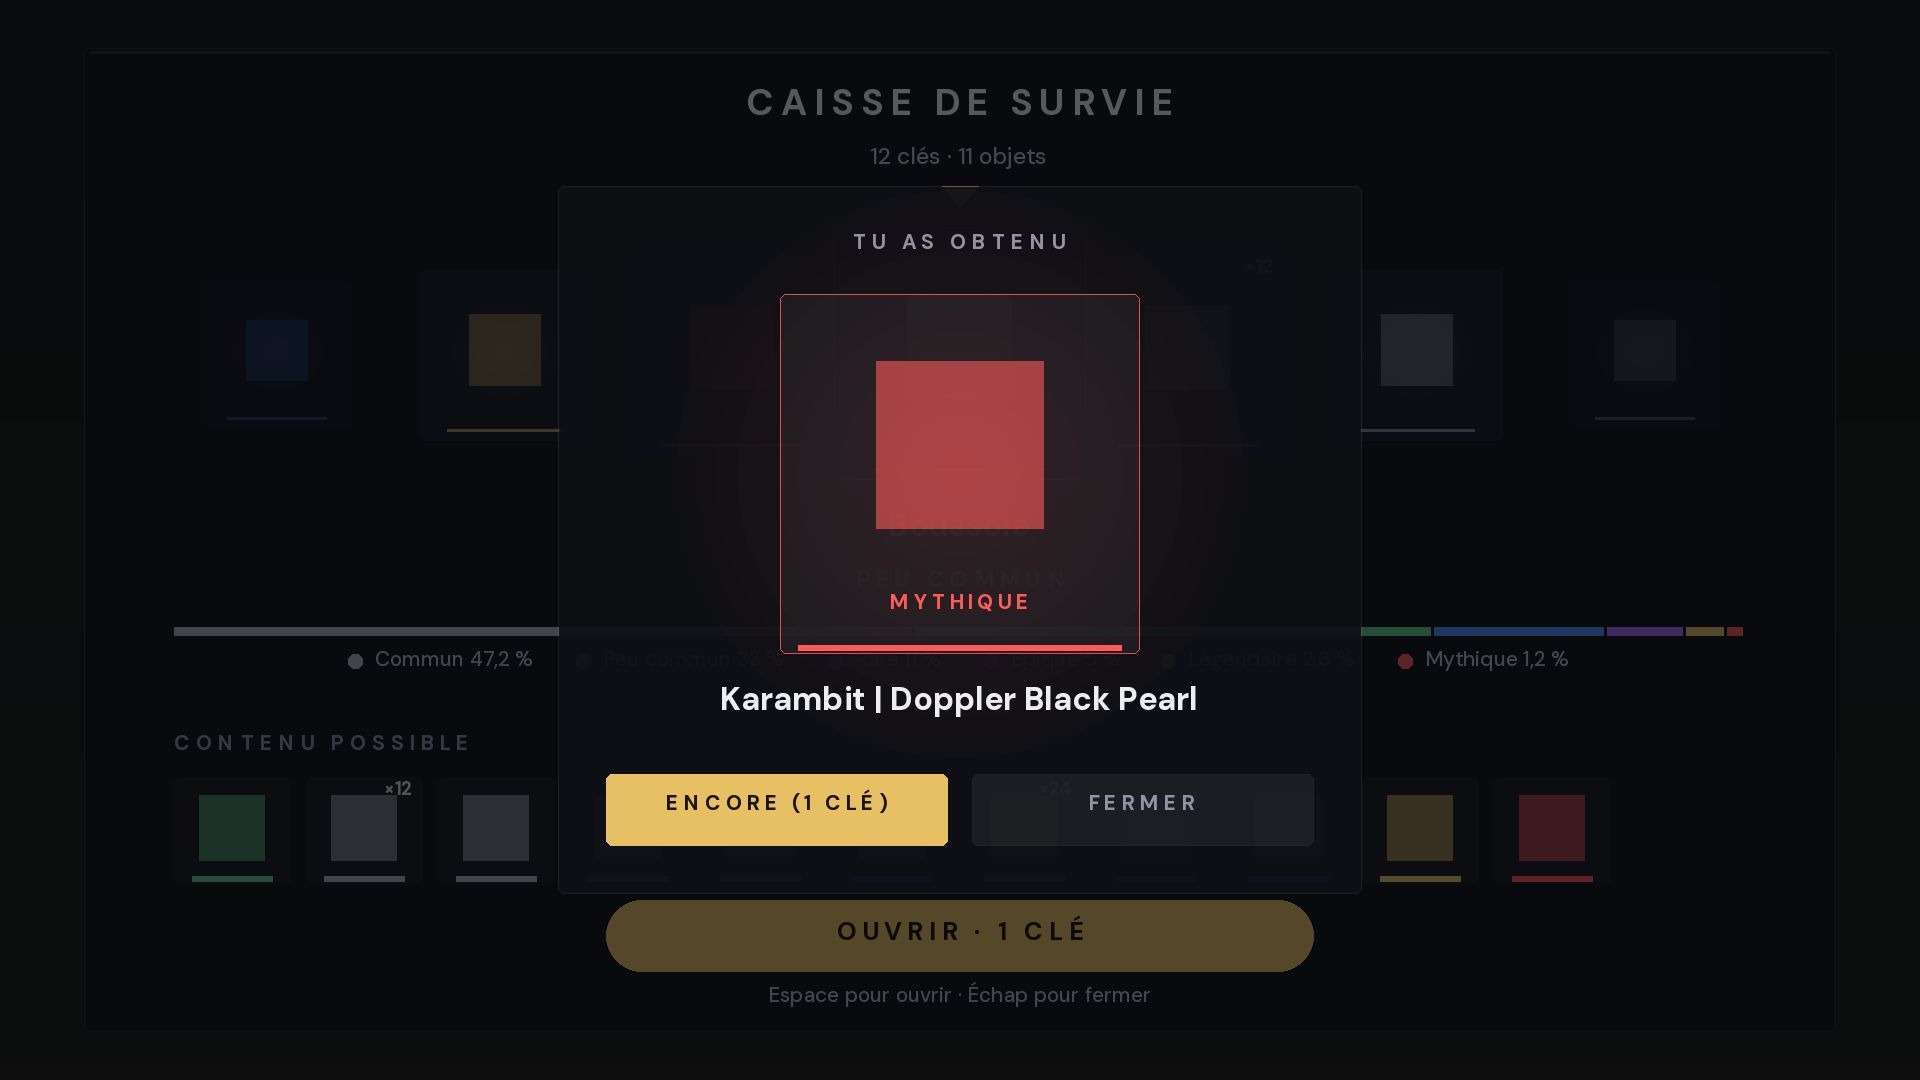
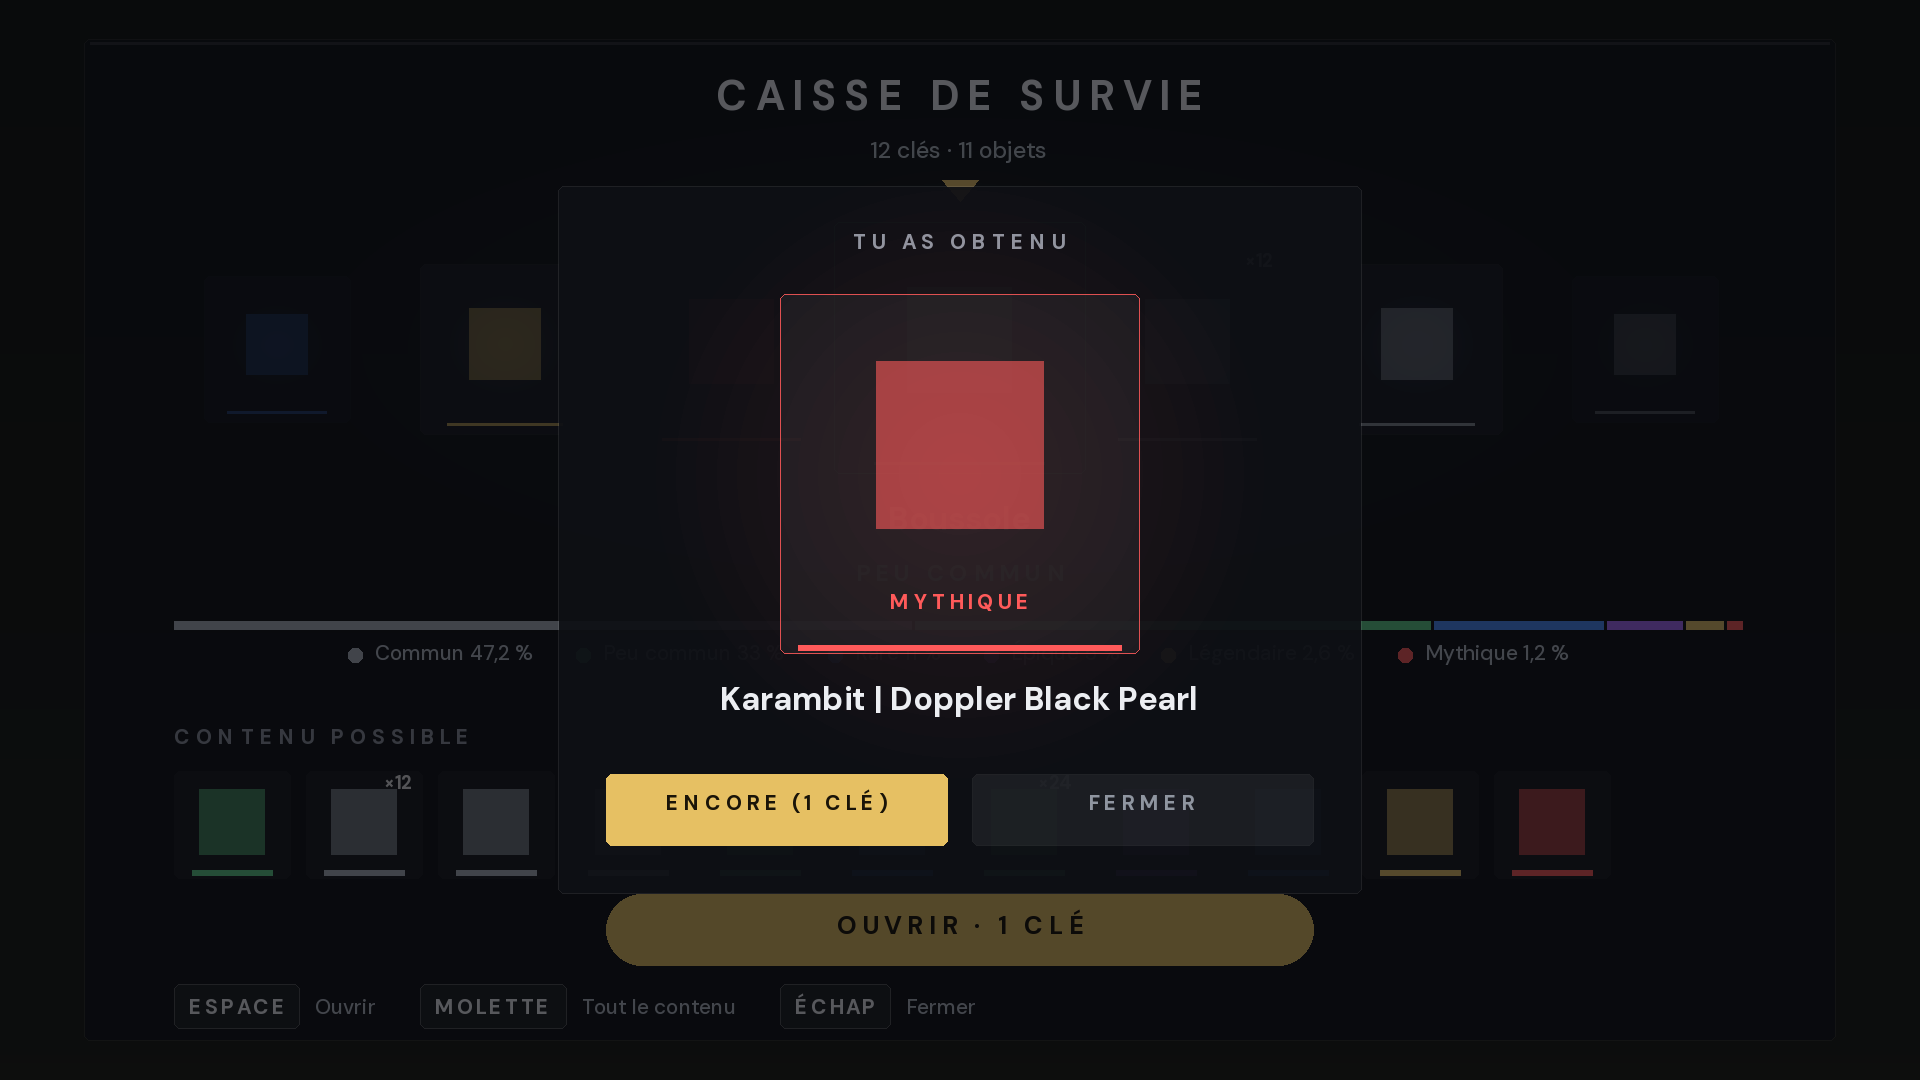
Caisses 2.20.0 : écran d'ouverture au niveau de la boutique (titre 18, halo de rareté derrière la roue, rangée des touches ESPACE / MOLETTE / ÉCHAP en bas) ; aperçus 1920 x 1080 ; jar joueurs à redonner
Claude-Session: https://claude.ai/code/session_017zTciF6jhowAQMTd62LAuP

diff --git a/mods/heraliz-crates/src/client/java/fr/heraliz/crates/client/gui/CaseOpenScreen.java b/mods/heraliz-crates/src/client/java/fr/heraliz/crates/client/gui/CaseOpenScreen.java
@@ -45,7 +45,7 @@ public class CaseOpenScreen extends Screen {
 
     /**
      * Polices (DM Sans, tracées à leur vraie taille, jamais agrandies : nettes comme dans /perso ; Caisses 2.20.0, l'écran
-     * était trop petit et illisible) : titre gras 16, nom de l'objet gras 14, sous-titre 10, rareté gras 10, texte courant
+     * était trop petit et illisible) : titre gras 18, nom de l'objet gras 14, sous-titre 10, rareté gras 10, texte courant
      * 9 (légende, aide, erreurs), petites capitales grasses 9 (section, boutons de la carte du gain), quantités grasses 8.
      * Tailles et mise en page reprises par l'aperçu outils/apercu_ecran_caisse.py (il lit les constantes de ce fichier).
      */
@@ -59,13 +59,18 @@ public class CaseOpenScreen extends Screen {
     private static final int OR_HAUT = 0xF0CF7B, OR_BAS = 0xD9AC4C, OR_TEXTE = 0x1A1408;
 
     /** Panneau (proposition B) : 584 x 328 au canevas d'au moins 600 x 340 (Echelle), marges intérieures PAD. */
-    private static final int PANNEAU_W = 584, PANNEAU_H = 328, PAD = 30;
+    private static final int PANNEAU_W = 584, PANNEAU_H = 334, PAD = 30;
     /** Hauts des lignes (depuis le haut du panneau) : titre, sous-titre, roue, nom, rareté, barre des chances, légende,
-     *  section « Contenu possible », grille, bouton ; l'aide est AIDE_ECART sous le bouton. */
-    private static final int TITRE_Y = 12, SOUS_Y = 33, ROUE_Y = 56, NOM_Y = 154, RARETE_Y = 174, CHANCES_Y = 193,
-            LEGENDE_Y = 201, SECTION_Y = 229, GRILLE_Y = 243, BOUTON_Y = 284, AIDE_ECART = 5;
+     *  section « Contenu possible », grille, bouton, rangée des touches en bas (comme la boutique : ESPACE Ouvrir…). */
+    private static final int TITRE_Y = 12, SOUS_Y = 34, ROUE_Y = 57, NOM_Y = 155, RARETE_Y = 175, CHANCES_Y = 194,
+            LEGENDE_Y = 202, SECTION_Y = 230, GRILLE_Y = 244, BOUTON_Y = 285, TOUCHES_Y = 315;
+    /** Rangée des touches : hauteur d'une touche, marge du texte dans la touche, écart touche-action, écart entre deux. */
+    private static final int TOUCHE_H = 15, TOUCHE_PAD = 5, TOUCHE_ECART = 5, TOUCHES_ESPACE = 14, TOUCHE_TEXTE_Y = 5;
     /** Espacement des capitales : titre, rareté, section, bouton, boutons du gain. */
-    private static final float ESP_TITRE = 1.8f, ESP_RARETE = 1.4f, ESP_SECTION = 1.4f, ESP_BOUTON = 1.4f, ESP_GAIN = 1.0f;
+    private static final float ESP_TITRE = 2.2f, ESP_TOUCHE = 0.3f, ESP_RARETE = 1.4f, ESP_SECTION = 1.4f, ESP_BOUTON = 1.4f,
+            ESP_GAIN = 1.0f;
+    /** Halo de rareté derrière la roue : demi-largeur (part du panneau), demi-hauteur (part de la roue). */
+    private static final float HALO_L = 0.42f, HALO_H = 0.95f;
     /** Roue : écart entre les centres des cartes (STEP), largeur logique d'une carte (CW, sert au point d'arrêt), carte du
      *  milieu (CARTE_MAX px), les autres rapetissent avec la distance ; marge de la roue dans le panneau. */
     private static final int STEP = 76, CW = 68, CARTE_MAX = 84, ROUE_H = 92, ROUE_MARGE = 20;
@@ -79,6 +84,8 @@ public class CaseOpenScreen extends Screen {
             GAIN_TITRE_Y = 16, GAIN_CARTE_Y = 36, GAIN_NOM_Y = 166;
     /** Couleur de la légende, du sous-titre et de l'aide : plus claire que MUTED, lisible sur le verre. */
     private static final int CLAIR = 0xB4BAC4;
+    /** Opacité du halo de rareté derrière la roue. */
+    private static final int HALO_ALPHA = 34;
     /** Durée de la roue en ms : celle du serveur (CrateAnim.REEL_TICKS), l'objet est donné à la fin. */
     private static final long DUREE_ROUE = CrateAnim.REEL_TICKS * 50L;
     /** Après l'arrêt : temps avant la carte du gain, puis son apparition (ms). */
@@ -430,6 +437,9 @@ public class CaseOpenScreen extends Screen {
 
         Lot lot = new Lot(g);
         lot.verre(px, py, pw, ph, 200);
+        // halo très doux de la couleur de l'objet sous le repère derrière la roue (comme les cartes de la boutique)
+        Packets.Card sous = at(indexSousRepere());
+        if (sous != null) lot.lueur(px + pw / 2f, roueCy(), pw * HALO_L, ROUE_H * HALO_H, Ui.argb(couleur(sous.rarity()), HALO_ALPHA));
         lot.fin();
         renderEntete(g);
         renderRoue(g, now);
@@ -755,20 +765,55 @@ public class CaseOpenScreen extends Screen {
         String texte = Component.translatable(cle).getString().toUpperCase(Locale.ROOT);
         Ui.spacedCentered(g, font, texte, Ui.BOLD, boutonX + boutonW / 2f, boutonY + 7, Ui.argb(dore ? OR_TEXTE : Ui.MUTED, 255), ESP_BOUTON);
 
-        // aide (ou erreur du serveur)
-        float ay = boutonY + BOUTON_H + AIDE_ECART;
-        if (error != null && ticks - errorAt < 80) {
-            String e = Ui.ellipsis(font, error.getString(), TEXTE, pw - 2 * pad);
-            Ui.centered(g, font, Ui.lit(e, TEXTE), boutonX + boutonW / 2f, ay, Ui.argb(Ui.DANGER, 240));
-            return;
+        renderTouches(g);
+    }
+
+    /**
+     * Rangée du bas, comme la boutique : touches en pastilles (ESPACE Ouvrir, MOLETTE Contenu, ÉCHAP Fermer) à gauche ;
+     * à droite, l'erreur du serveur ou d'où viennent les clés.
+     */
+    private void renderTouches(GuiGraphics g) {
+        List<String[]> touches = new ArrayList<>();
+        if (state == State.SPIN) touches.add(new String[]{"gui.heralizcrates.case.touche.espace", "gui.heralizcrates.case.skip"});
+        else if (peutOuvrir()) touches.add(new String[]{"gui.heralizcrates.case.touche.espace", "gui.heralizcrates.case.open"});
+        if (maxScroll() > 0) touches.add(new String[]{"gui.heralizcrates.case.touche.molette", "gui.heralizcrates.case.action.contenu"});
+        touches.add(new String[]{"gui.heralizcrates.case.touche.echap", "gui.heralizcrates.case.close"});
+        int y = py + TOUCHES_Y;
+        float x = px + pad;
+        for (String[] t : touches) {
+            String touche = Component.translatable(t[0]).getString().toUpperCase(Locale.ROOT);
+            String action = Component.translatable(t[1]).getString();
+            int tw = Math.round(Ui.spacedWidth(font, touche, TEXTE_GRAS, ESP_TOUCHE)) + 2 * TOUCHE_PAD;
+            Lot lot = new Lot(g);
+            lot.rond(Math.round(x), y, tw, TOUCHE_H, Ui.argb(0xFFFFFF, 14));
+            lot.rondContour(Math.round(x), y, tw, TOUCHE_H, Ui.argb(0xFFFFFF, 70));
+            lot.fin();
+            Ui.spaced(g, font, touche, TEXTE_GRAS, Math.round(x) + TOUCHE_PAD, y + TOUCHE_TEXTE_Y, Ui.argb(Ui.TEXT, 255), ESP_TOUCHE);
+            float ax = Math.round(x) + tw + TOUCHE_ECART;
+            g.pose().pushPose();
+            Ui.placer(g, ax, y + TOUCHE_TEXTE_Y);
+            g.drawString(font, Ui.lit(action, TEXTE), 0, 0, Ui.argb(CLAIR, 255), false);
+            g.pose().popPose();
+            x = ax + font.width(Ui.lit(action, TEXTE)) + TOUCHES_ESPACE;
         }
-        String aide;
-        if (contents.isEmpty()) aide = "gui.heralizcrates.case.empty";
-        else if (state == State.SPIN) aide = "gui.heralizcrates.case.help.skip";
-        else if (!free && keys < 1) aide = "gui.heralizcrates.case.help.keys";
-        else aide = "gui.heralizcrates.case.help.open";
-        String a = Ui.ellipsis(font, Component.translatable(aide).getString(), TEXTE, pw - 2 * pad);
-        Ui.centered(g, font, Ui.lit(a, TEXTE), boutonX + boutonW / 2f, ay, Ui.argb(CLAIR, 255));
+        // à droite : erreur du serveur, ou d'où viennent les clés
+        String note = null;
+        int couleur = Ui.MUTED;
+        if (error != null && ticks - errorAt < 80) {
+            note = error.getString();
+            couleur = Ui.DANGER;
+        } else if (contents.isEmpty()) {
+            note = Component.translatable("gui.heralizcrates.case.empty").getString();
+        } else if (!free && keys < 1 && state != State.SPIN) {
+            note = Component.translatable("gui.heralizcrates.case.help.keys").getString();
+        }
+        if (note != null) {
+            int place = Math.round(px + pw - pad - 2 - x);
+            if (place > 20) {
+                note = Ui.ellipsis(font, note, TEXTE, place);
+                Ui.right(g, font, Ui.lit(note, TEXTE), px + pw - pad - 2, y + TOUCHE_TEXTE_Y, Ui.argb(couleur, 255));
+            }
+        }
     }
 
     /** Fin de la roue : panneau principal assombri, carte « Tu as obtenu » au centre. */

diff --git a/mods/heraliz-crates/outils/apercu_ecran_caisse.py b/mods/heraliz-crates/outils/apercu_ecran_caisse.py
@@ -297,7 +297,7 @@ def nom_objet(n, code):
 
 
 def dessiner_ecran(fen_w, fen_h, code, etat, dessiner=True, sous_repere=0, titre="Caisse de survie", cles="free",
-                   long_nom=False, erreur=False):
+                   long_nom=False, erreur=False, plein=False):
     """etat : 'repos' (roue, bouton Ouvrir), 'roue' (la roue tourne), 'cle' (pas de clé), 'gain' (carte du gain)."""
     L = langue(code)
     fr = code.startswith("fr")
@@ -341,6 +341,10 @@ def dessiner_ecran(fen_w, fen_h, code, etat, dessiner=True, sous_repere=0, titre
     else:
         sous = L["gui.heralizcrates.case.subtitle"] % (str(cles), n)
     e.centre("sous-titre", POL["SOUS"], sous, cx, py + C["SOUS_Y"], clair, bande_entete)
+
+    # halo de la rareté de l'objet sous le repère, derrière la roue
+    e.lueur(px + pw / 2, roueY + C["ROUE_H"] / 2, pw * C["HALO_L"], C["ROUE_H"] * C["HALO_H"],
+            C["RARETES"][OBJETS[sous_repere % len(OBJETS)][1]], C["HALO_ALPHA"])
 
     # roue
     step, cw, cmax, roueH = C["STEP"], C["CW"], C["CARTE_MAX"], C["ROUE_H"]
@@ -457,15 +461,41 @@ def dessiner_ecran(fen_w, fen_h, code, etat, dessiner=True, sous_repere=0, titre
     bt = L[cle].upper()
     e.espace_centre("bouton", POL["BOLD"], bt, boutonX + boutonW / 2, boutonY + 7, C["OR_TEXTE"] if dore else MUTED,
                     C["ESP_BOUTON"], (boutonX + boutonH / 2 - 2, boutonY + 3, boutonX + boutonW - boutonH / 2 + 2, boutonY + boutonH - 3))
-    ay = boutonY + boutonH + C["AIDE_ECART"]
-    bande_aide = (interieur[0], boutonY + boutonH + 1, interieur[2], py + ph - 2)
+    # rangée des touches (renderTouches) : pastilles à gauche, note à droite
+    touches = []
+    if etat == "roue":
+        touches.append(("touche.espace", "skip"))
+    elif etat != "cle":
+        touches.append(("touche.espace", "open"))
+    if plein:
+        touches.append(("touche.molette", "action.contenu"))
+    touches.append(("touche.echap", "close"))
+    ty, th, tpad, tec, tesp, tty = py + C["TOUCHES_Y"], C["TOUCHE_H"], C["TOUCHE_PAD"], C["TOUCHE_ECART"], C["TOUCHES_ESPACE"], C["TOUCHE_TEXTE_Y"]
+    bande_touches = (interieur[0], boutonY + boutonH + 1, interieur[2], py + ph - 2)
+    x = px + pad
+    for tk, ak in touches:
+        touche = L["gui.heralizcrates.case." + tk].upper()
+        action = L["gui.heralizcrates.case." + ak]
+        tw = round(POL["TEXTE_GRAS"].largeur_espacee(touche, C["ESP_TOUCHE"])) + 2 * tpad
+        xr = round(x)
+        e.rond(xr, ty, tw, th, 0xFFFFFF, 14, contour=(0xFFFFFF, 70))
+        e.espace(f"touche {touche}", POL["TEXTE_GRAS"], touche, xr + tpad, ty + tty, TEXTE, C["ESP_TOUCHE"],
+                 (xr + 1, ty + 1, xr + tw - 1, ty + th - 1))
+        ax = xr + tw + tec
+        e.texte(f"action {action}", POL["TEXTE"], action, ax, ty + tty, clair, bande_touches)
+        x = ax + POL["TEXTE"].largeur(action) + tesp
+    note, coul = None, MUTED
     if erreur:
-        s = ellipsis(POL["TEXTE"], L["gui.heralizcrates.case.error.all_emotes"], pw - 2 * pad)
-        e.centre("erreur", POL["TEXTE"], s, boutonX + boutonW / 2, ay, 0xFF6B6B, bande_aide)
-    else:
-        aide = {"roue": "help.skip", "cle": "help.keys"}.get(etat, "help.open")
-        s = ellipsis(POL["TEXTE"], L["gui.heralizcrates.case." + aide], pw - 2 * pad)
-        e.centre("aide", POL["TEXTE"], s, boutonX + boutonW / 2, ay, clair, bande_aide)
+        note, coul = L["gui.heralizcrates.case.error.all_emotes"], 0xFF6B6B
+    elif etat == "cle":
+        note = L["gui.heralizcrates.case.help.keys"]
+    if note is not None:
+        place = round(px + pw - pad - 2 - x)
+        if place > 20:
+            note = ellipsis(POL["TEXTE"], note, place)
+            e.droite("note", POL["TEXTE"], note, px + pw - pad - 2, ty + tty, coul, bande_touches)
+        else:
+            e.textes.append(("note : pas de place", (0, 0, 1, 1), (0, 0, 0, 0)))
 
     if etat == "gain":
         gain(e, L, code, cles)
@@ -557,10 +587,12 @@ def controler():
                         for repere in (0, 1, 6, 10):
                             for long_nom in (False, True):
                                 e = dessiner_ecran(fw, fh, code, etat, dessiner=False, sous_repere=repere, cles=cles,
-                                                   long_nom=long_nom, titre="Caisse des emotes et des vœux de la saison")
+                                                   long_nom=long_nom, titre="Caisse des emotes et des vœux de la saison",
+                                                   plein=long_nom)
                                 fautes += debordements(e, f"{modele} {fw}x{fh} {code} {etat} clés={cles} repère={repere}")
-                e = dessiner_ecran(fw, fh, code, "repos", dessiner=False, erreur=True)
-                fautes += debordements(e, f"{modele} {fw}x{fh} {code} erreur")
+                for et in ("repos", "cle"):
+                    e = dessiner_ecran(fw, fh, code, et, dessiner=False, erreur=True, plein=True)
+                    fautes += debordements(e, f"{modele} {fw}x{fh} {code} {et} erreur")
     MODELE = "source"
     return sorted(set(fautes))
 
@@ -572,9 +604,9 @@ def main():
     args.sortie.mkdir(parents=True, exist_ok=True)
     rendus = [((1920, 1080), "fr_fr", "repos", 12, "1920x1080_roue.png"), ((1920, 1080), "fr_fr", "gain", 12, "1920x1080_gain.png"),
               ((1280, 720), "fr_fr", "repos", "free", "1280x720_roue.png"), ((1280, 720), "fr_fr", "gain", "free", "1280x720_gain.png"),
-              ((1280, 720), "ru_ru", "cle", 0, "1280x720_roue_ru.png")]
+              ((1280, 720), "ru_ru", "cle", 0, "1280x720_roue_ru.png"), ((1920, 1080), "fr_fr", "cle", 0, "1920x1080_sans_cle.png")]
     for (fw, fh), code, etat, cles, nom in rendus:
-        e = dessiner_ecran(fw, fh, code, etat, sous_repere=0, cles=cles)
+        e = dessiner_ecran(fw, fh, code, etat, sous_repere=0, cles=cles, plein=True)
         e.img.convert("RGB").save(args.sortie / nom, optimize=True)
         print(f"{args.sortie / nom} (échelle {e.s}, canevas {e.w} x {e.h})")
     fautes = controler()

diff --git a/CLAUDE.md b/CLAUDE.md
@@ -2095,9 +2095,11 @@ Knight, Kraken et Vulkhar mis de côté. Le propriétaire trouve que les boss ra
   `dropAllAmmo` de TaCZ, chargeur gardé vide ; refusé pour une arme de match, en rechargement, à carburant ou sans vraies
   munitions. Caisses 2.18.0 : textes nets (titre et nom à leur taille, polices `ui_titre` / `ui_nom`, `Ui.placer`).
   Caisses 2.20.0 (« tout est trop petit, en pixels ») : écran d'ouverture agrandi à presque tout le canevas (panneau
-  584 × 328, cartes de la roue jusqu'à 84, grille de 12 cases de 39 × 36), textes plus grands à leur vraie taille (titre
-  16, nom 14, sous-titre et rareté 10, légende et aide 9, quantités 8 ; polices `ui_sous`, `ui_sous_bold`,
-  `ui_small_bold`, `ui_compte_bold`), couleur plus claire pour la légende et l'aide ; aperçu et contrôle « rien ne
+  584 × 334, cartes de la roue jusqu'à 84, grille de 12 cases de 39 × 36), textes plus grands à leur vraie taille (titre
+  18, nom 14, sous-titre et rareté 10, légende 9, quantités 8 ; polices `ui_sous`, `ui_sous_bold`, `ui_small_bold`,
+  `ui_compte_bold`), couleur plus claire pour la légende, halo de la rareté derrière la roue, rangée des touches en bas
+  comme la boutique (ESPACE Ouvrir, MOLETTE Tout le contenu, ÉCHAP Fermer ; à droite l'erreur ou d'où viennent les
+  clés) ; aperçu et contrôle « rien ne
   déborde » (3 langues, 9 tailles de fenêtre) par `python mods/heraliz-crates/outils/apercu_ecran_caisse.py` (lit les
   constantes de `CaseOpenScreen`, images dans `maquettes/caisses_lisibles/`). Rien testé en jeu.
   Puis (23/10, nuit, rien testé en jeu) : échelle d'interface du joueur rendue dès qu'aucun écran n'est ouvert
